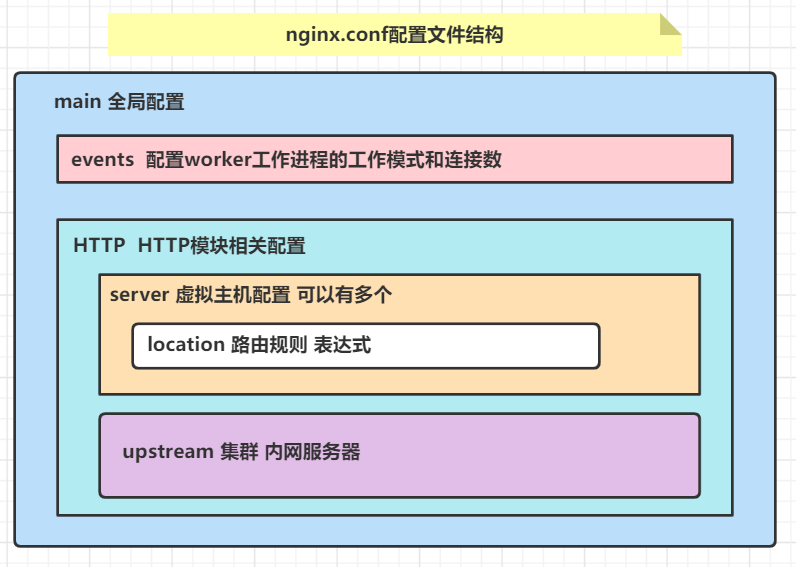
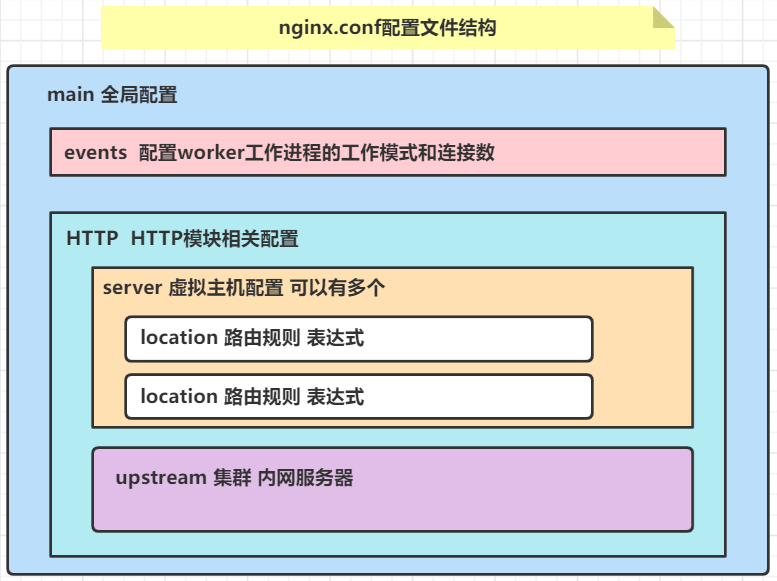
update

diff --git a/docs/Nginx/04 nginx配置文件.md b/docs/Nginx/04 nginx配置文件.md
@@ -13,7 +13,7 @@ typora-root-url: ..\.vuepress\public
 
 [Progresson On](https://www.processon.com/view/link/62f2a1ad5653bb1344cca1fa)
 
-![image-20220810020213337](/images/nginx/image-20220810020213337.png)
+![image-20220810024257850](/images/nginx/image-20220810020213337.png)
 
 
 
@@ -127,3 +127,6 @@ gzip_types text/plain application/javascript application/x-javascript text/css a
 
 ```
 
+
+
+### server虚拟主机配置❤
